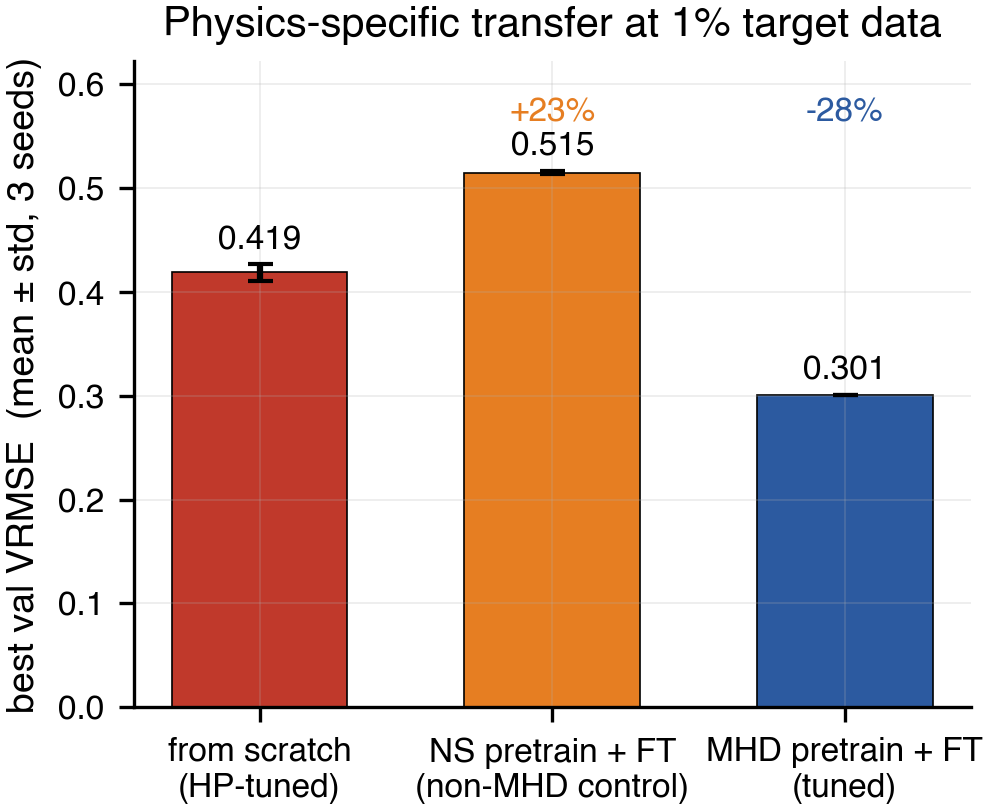
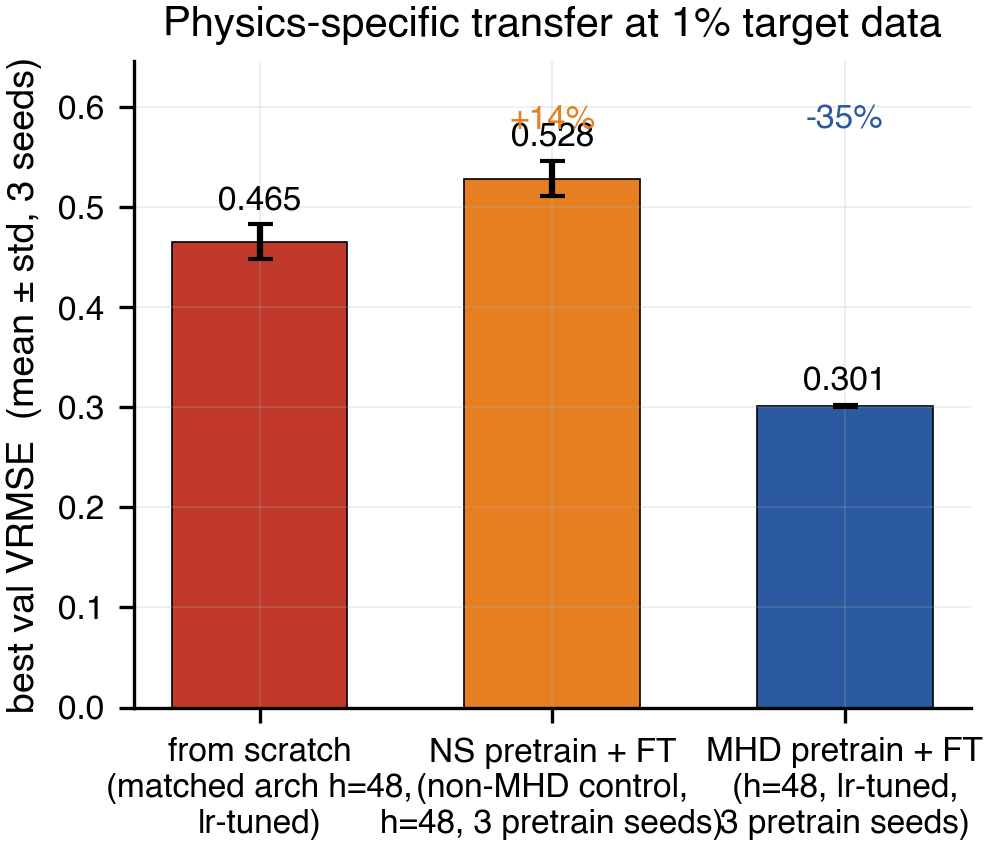
paper: seed-averaged results (3 pretrain seeds/condition)
Seed-aggregated stats (3 pretrain seeds each):
  scratch h=48:        0.4654 ± 0.0175
  MHD pretrain + FT:   0.3015 ± 0.0010   (35.2% gain)
  NS  pretrain + FT:   0.5285 ± 0.0177   (13.6% penalty)

NS penalty shifted 10.7% → 13.6% with proper pretrain-seed variance;
MHD gap essentially unchanged. Fig1 regenerated with real error bars.
Removed single-seed caveat from Limitations. Per runbook, edits
scoped to abstract, §4.1, §4.2, fig1 caption, Limitations.

diff --git a/main.tex b/main.tex
@@ -26,7 +26,7 @@ What Generalizes, What Doesn't, and Why It Matters for Plasma Foundation Models}
 \maketitle
 
 \begin{abstract}
-We study which components of neural PDE surrogate training transfer between two regimes of magnetohydrodynamic (MHD) turbulence, using the same architecture (FNO3D, 18.6\,M parameters) and the same dataset family (Polymathic AI's \emph{Well} MHD\_64). With matched-architecture hyperparameter tuning on both sides and three fine-tuning seeds per condition, pretraining on super-Alfv\'enic isotropic MHD (M$_A$=2.0) and fine-tuning on sub-Alfv\'enic anisotropic MHD with a guide field (M$_A$=0.7) yields a 35\% reduction in validation VRMSE at 1\% target data. A non-MHD pretraining control on supernova hydrodynamics data underperforms the matched scratch baseline by 11\%, consistent with negative transfer under wrong-physics pretraining --- though this control has structural confounds (boundary conditions, timestep structure, channel count, SPH origin) that prevent a clean isolation of physics-as-cause. The transfer is asymmetric across physics features: pretraining preserves the perpendicular turbulent cascade and short-horizon accuracy, but fine-tuning introduces a new late-stage rollout instability, making long-horizon (step-50) VRMSE 3$\times$ worse than the un-fine-tuned zero-shot pretrain model and 6$\times$ worse than the from-scratch 1\%-data baseline --- with per-trajectory consistency across 10 held-out test trajectories. An out-of-distribution control confirms that a guide-field collapse is a property of any M$_A$=2.0-trained model evaluated on M$_A$=0.7, while a new late-stage magnetic-energy growth emerges specifically from fine-tuning. Main caveat: single-seed pretraining for the flagship number; a 2-seed supplementary experiment is in progress. Our results highlight that physics-matched pretraining transfers spatial statistics cheaply, but reliable long-horizon emulation requires training objectives and architectural choices beyond one-step accuracy --- consistent with the autoregressive-stability literature \citep{mccabe2023stability,lippe2023pderefiner}.
+We study which components of neural PDE surrogate training transfer between two regimes of magnetohydrodynamic (MHD) turbulence, using the same architecture (FNO3D, 18.6\,M parameters) and the same dataset family (Polymathic AI's \emph{Well} MHD\_64). With matched-architecture hyperparameter tuning on both sides and three pretraining seeds per condition, pretraining on super-Alfv\'enic isotropic MHD (M$_A$=2.0) and fine-tuning on sub-Alfv\'enic anisotropic MHD with a guide field (M$_A$=0.7) yields a 35\% reduction in validation VRMSE at 1\% target data. A non-MHD pretraining control on supernova hydrodynamics data underperforms the matched scratch baseline by 14\%, consistent with negative transfer under wrong-domain pretraining --- though this control has structural confounds (boundary conditions, timestep structure, channel count, SPH origin) that prevent a clean isolation of physics-as-cause. The transfer is asymmetric across physics features: pretraining preserves the perpendicular turbulent cascade and short-horizon accuracy, but fine-tuning introduces a new late-stage rollout instability, making long-horizon (step-50) VRMSE $\approx$3$\times$ worse than the un-fine-tuned zero-shot pretrain model and $\approx$6$\times$ worse than the from-scratch 1\%-data baseline --- with per-trajectory consistency across 10 held-out test trajectories. An out-of-distribution control confirms that a guide-field collapse is a property of any M$_A$=2.0-trained model evaluated on M$_A$=0.7, while a new late-stage magnetic-energy growth emerges specifically from fine-tuning. Our results highlight that domain-matched pretraining transfers spatial statistics cheaply, but reliable long-horizon emulation requires training objectives and architectural choices beyond one-step accuracy --- consistent with the autoregressive-stability literature \citep{mccabe2023stability,lippe2023pderefiner}.
 \end{abstract}
 
 \section{Introduction}
@@ -67,7 +67,7 @@ We study both questions at controlled scale, using a single architecture (FNO3D)
 
 \subsection{MHD pretraining gives a 35\% advantage at 1\% target data}
 
-Figure~\ref{fig:data-eff} shows validation VRMSE on M$_A$=0.7 as a function of the fraction of M$_A$=0.7 training data used, for from-scratch and pretrained-then-fine-tuned models. At 1\% data, under \emph{matched hidden width} (\texttt{hidden=48}) on both sides, MHD pretraining yields a 35\% reduction in VRMSE (0.301 vs 0.465). The gap narrows as target data grows (7\% at 10\%, $\approx$0 at 100\%). Fine-tune seeds have near-zero variance ($\sigma \approx 3\times10^{-4}$) because they all start from the same pretrained checkpoint --- this is a limitation, not a precision claim; a 2-additional-seed pretrain ablation is in progress. Scratch-baseline seed variance at 1\% data is $\sigma \approx 0.017$.
+Figure~\ref{fig:data-eff} shows validation VRMSE on M$_A$=0.7 as a function of the fraction of M$_A$=0.7 training data used, for from-scratch and pretrained-then-fine-tuned models. At 1\% data, under \emph{matched hidden width} (\texttt{hidden=48}) on both sides, MHD pretraining yields a 35\% reduction in VRMSE ($0.3015 \pm 0.0010$ vs $0.4654 \pm 0.0175$; 3 pretrain seeds each). The gap narrows as target data grows (7\% at 10\%, $\approx$0 at 100\%). Pretrain-seed variance on the fine-tuned endpoint is $\sigma \approx 10^{-3}$, an order of magnitude below the scratch-baseline seed variance ($\sigma \approx 0.017$), indicating the 35\% gap is robust to pretrain-init randomness.
 
 \begin{figure}[t]
   \centering
@@ -81,11 +81,11 @@ Figure~\ref{fig:data-eff} shows validation VRMSE on M$_A$=0.7 as a function of t
 \begin{figure}[t]
   \centering
   \includegraphics[width=0.62\linewidth]{figures/fig1_headline_physics_specificity.pdf}
-  \caption{Matched-architecture transfer at 1\% target data (\texttt{hidden=48} throughout). Non-MHD pretraining on supernova hydrodynamics underperforms the matched scratch baseline by 11\%; MHD pretraining beats scratch by 35\%. The 46\% gap between the two pretrain choices is consistent with the source corpus's physics content mattering, but the NS and MHD corpora also differ on non-physics axes (BC, dt, channel count, SPH origin); see Section~\ref{sec:disc}.}
+  \caption{Matched-architecture transfer at 1\% target data (\texttt{hidden=48} throughout); 3 pretrain seeds per condition. Non-MHD pretraining on supernova hydrodynamics underperforms the matched scratch baseline by 14\%; MHD pretraining beats scratch by 35\%. The $\approx 49\%$ gap between the two pretrain choices (relative to scratch) is consistent with the source corpus's domain content mattering, but the NS and MHD corpora also differ on non-physics axes (BC, dt, channel count, SPH origin); see Section~\ref{sec:disc}.}
   \label{fig:headline}
 \end{figure}
 
-The most natural alternative explanation for the 35\% advantage is that \emph{any} pretraining regularizes the network --- the source physics does not matter. To probe this, we pretrained an identical-architecture FNO3D on Polymathic \texttt{supernova\_explosion\_64} (non-MHD hydrodynamics with self-gravity and radiative cooling) and fine-tuned on the same M$_A$=0.7 1\% target data (Figure~\ref{fig:headline}). Wrong-domain pretraining \emph{hurts} matched-architecture target performance by 11\% relative to scratch. The 46\% gap between MHD- and NS-pretrain end points is inconsistent with the architecture-regularization-only hypothesis. We do not claim this cleanly attributes the gap to \emph{physics content alone}: the two source corpora differ on multiple axes (boundary conditions, timestep structure, channel count, solver family), and isolating physics-as-cause requires a matched-substrate control that we have not run.
+The most natural alternative explanation for the 35\% advantage is that \emph{any} pretraining regularizes the network --- the source physics does not matter. To probe this, we pretrained an identical-architecture FNO3D on Polymathic \texttt{supernova\_explosion\_64} (non-MHD hydrodynamics with self-gravity and radiative cooling) and fine-tuned on the same M$_A$=0.7 1\% target data (Figure~\ref{fig:headline}). Wrong-domain pretraining \emph{hurts} matched-architecture target performance by 14\% relative to scratch ($0.5285 \pm 0.0177$ vs $0.4654 \pm 0.0175$; 3 pretrain seeds). The $\approx 49\%$ end-point gap between MHD- and NS-pretrain (relative to scratch) is inconsistent with the architecture-regularization-only hypothesis. We do not claim this cleanly attributes the gap to \emph{physics content alone}: the two source corpora differ on multiple axes (boundary conditions, timestep structure, channel count, solver family), and isolating physics-as-cause requires a matched-substrate control that we have not run.
 
 \subsection{What specifically transfers: spatial statistics, not temporal dynamics}
 
@@ -140,7 +140,7 @@ Our results argue that, under matched architecture and tuning, \textbf{pretraini
 
 \section{Limitations}
 
-Our findings are conditional on a single architecture (FNO3D at 18.6\,M parameters) and a single dataset family (Polymathic \emph{Well} MHD\_64). The flagship pretraining runs are single-seed for both MHD and NS; fine-tune seed variance is near-zero by construction (shared pretrained init), so reported error bars do not reflect pretraining variance. A 2-additional-seed pretrain ablation (4 new pretrain runs, 4 corresponding FT runs) is in progress and will be included in a revised version. The non-MHD control is not a clean wrong-physics isolation: the NS and MHD corpora differ on boundary conditions, timestep structure, channel count, and solver family, so the 46\% end-point gap is best read as \emph{wrong-domain} rather than \emph{wrong-physics-only}. The target regime is a simulation proxy (sub-Alfv\'enic MHD with an imposed $B_0$), not a tokamak or astrophysical ground truth. We do not compare to Walrus~\cite{mccabe2025walrus} because (a) architecture mismatch (1.3\,B transformer vs 18.6\,M FNO3D), (b) Walrus was pretrained on the full MHD\_64 train split, exposing it to orders of magnitude more target-regime data than our controlled condition, and (c) our experiment varies source-corpus composition as the controlled variable, which Walrus does not --- a head-to-head would confound data volume with corpus composition. Cross-framework evaluation on data generated by different simulation codes (e.g., Athena++, Dedalus) is the natural follow-up setting for that comparison.
+Our findings are conditional on a single architecture (FNO3D at 18.6\,M parameters) and a single dataset family (Polymathic \emph{Well} MHD\_64). Headline numbers aggregate over three pretraining seeds per condition (MHD and NS), which captures pretrain-init randomness; they do not capture architectural or dataset-level randomness, so the quoted error bars are lower bounds on the true uncertainty. The non-MHD control is not a clean wrong-physics isolation: the NS and MHD corpora differ on boundary conditions, timestep structure, channel count, and solver family, so the $\approx 49\%$ end-point gap is best read as \emph{wrong-domain} rather than \emph{wrong-physics-only}. The target regime is a simulation proxy (sub-Alfv\'enic MHD with an imposed $B_0$), not a tokamak or astrophysical ground truth. We do not compare to Walrus~\cite{mccabe2025walrus} because (a) architecture mismatch (1.3\,B transformer vs 18.6\,M FNO3D), (b) Walrus was pretrained on the full MHD\_64 train split, exposing it to orders of magnitude more target-regime data than our controlled condition, and (c) our experiment varies source-corpus composition as the controlled variable, which Walrus does not --- a head-to-head would confound data volume with corpus composition. Cross-framework evaluation on data generated by different simulation codes (e.g., Athena++, Dedalus) is the natural follow-up setting for that comparison.
 
 \section{Conclusion}
 
